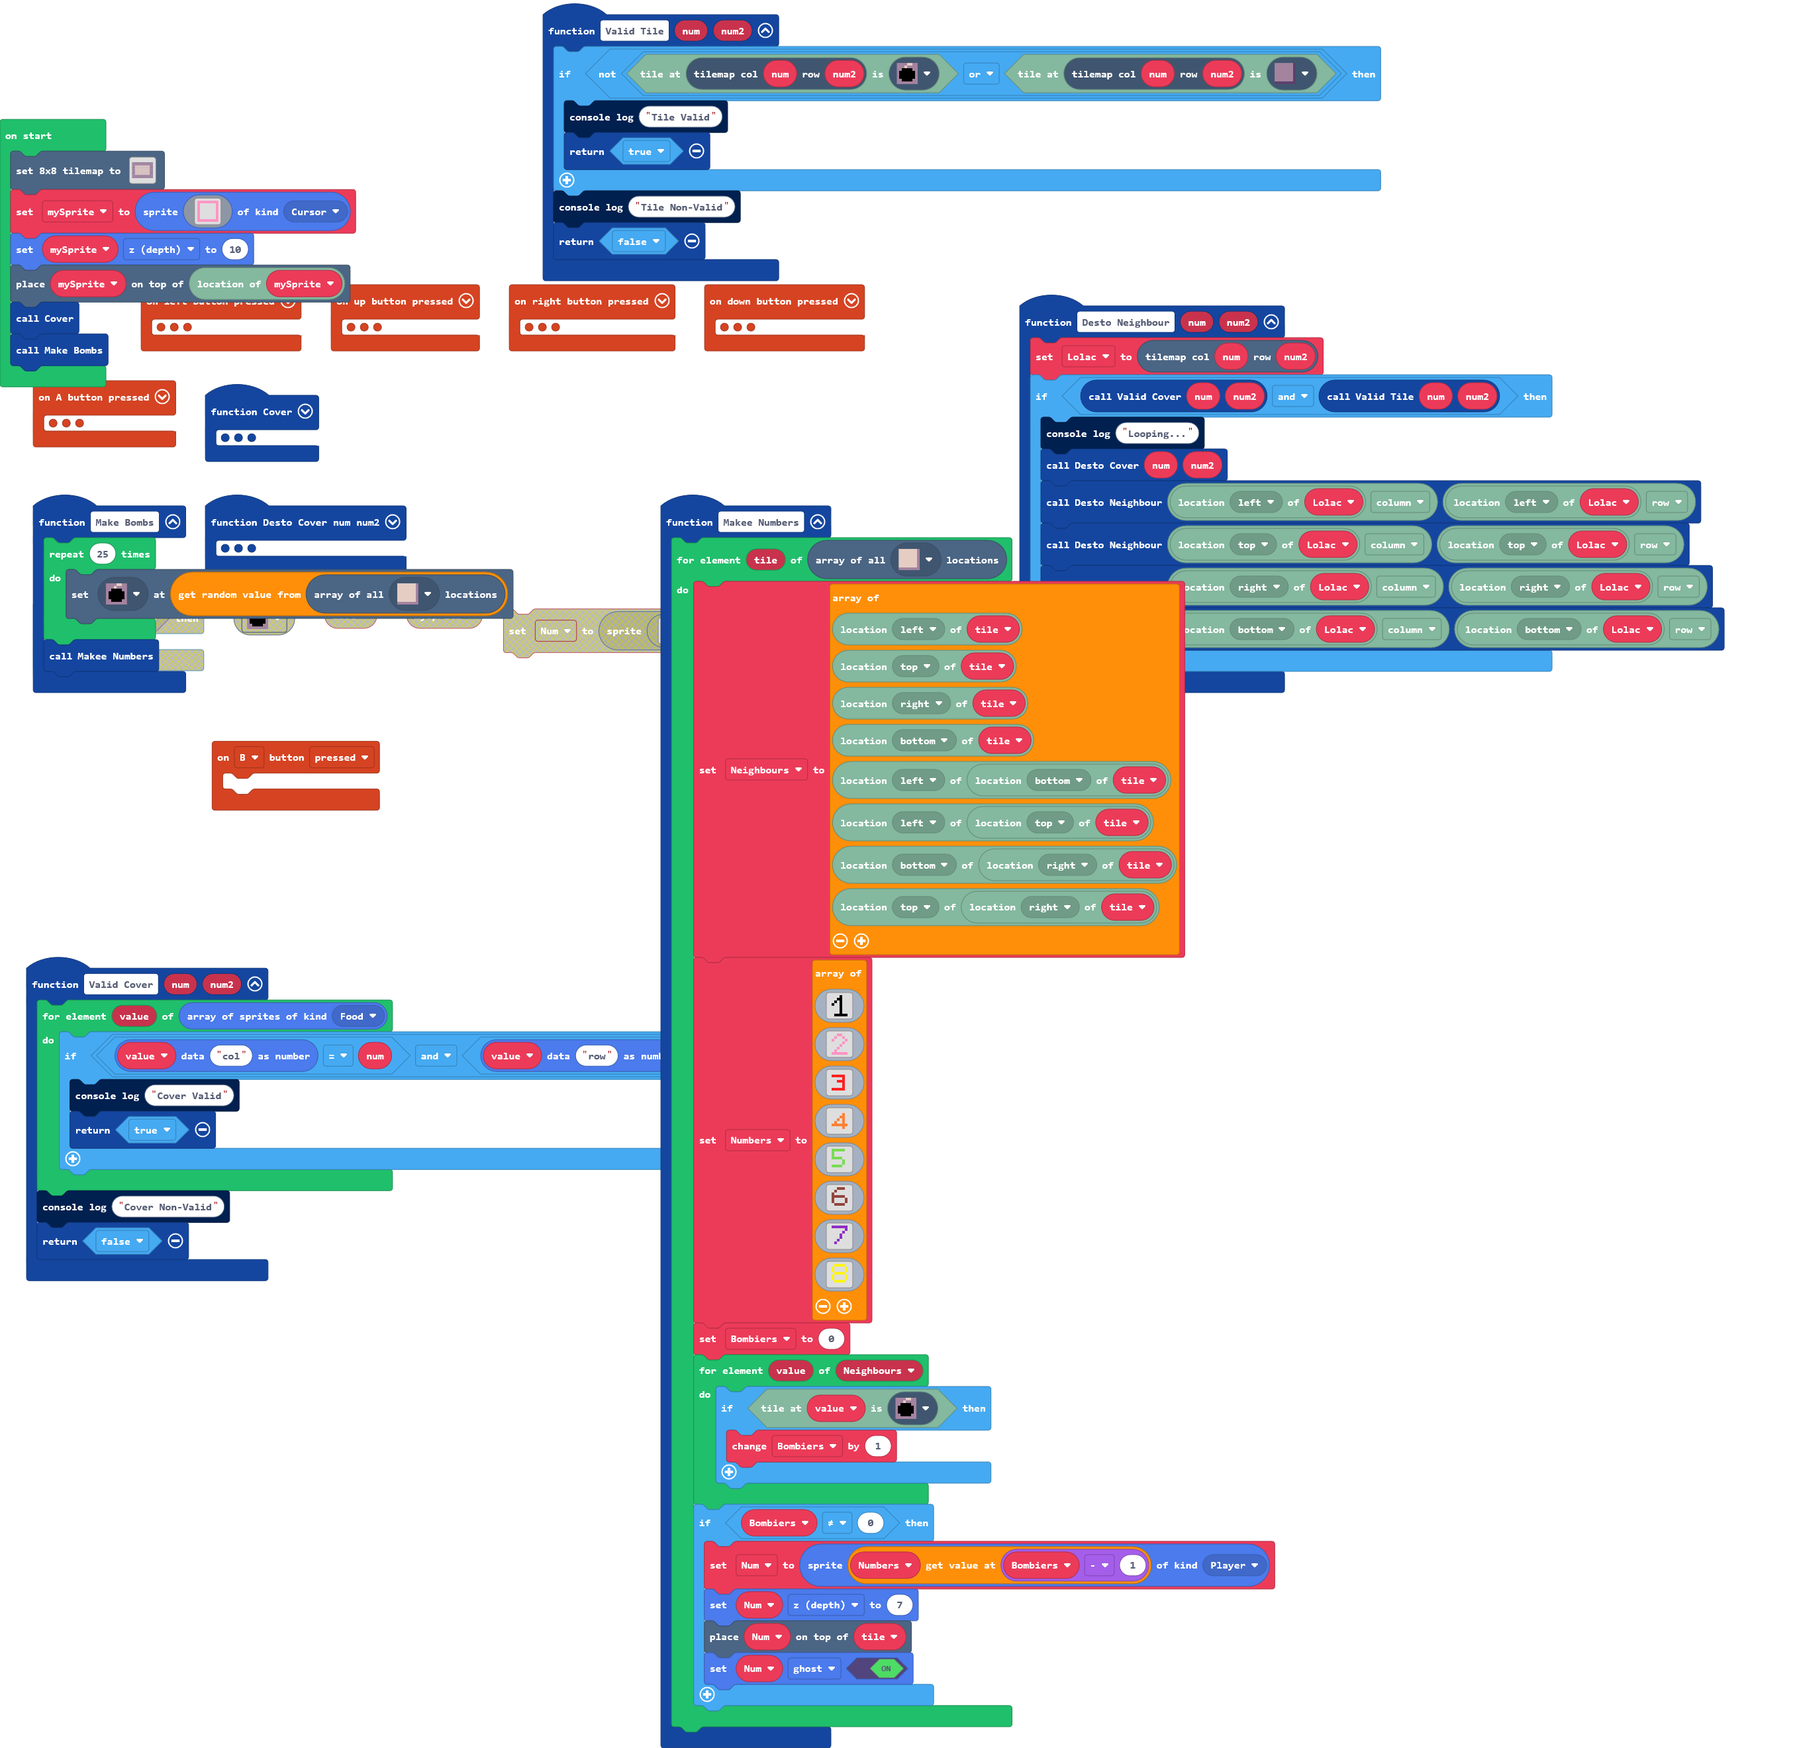
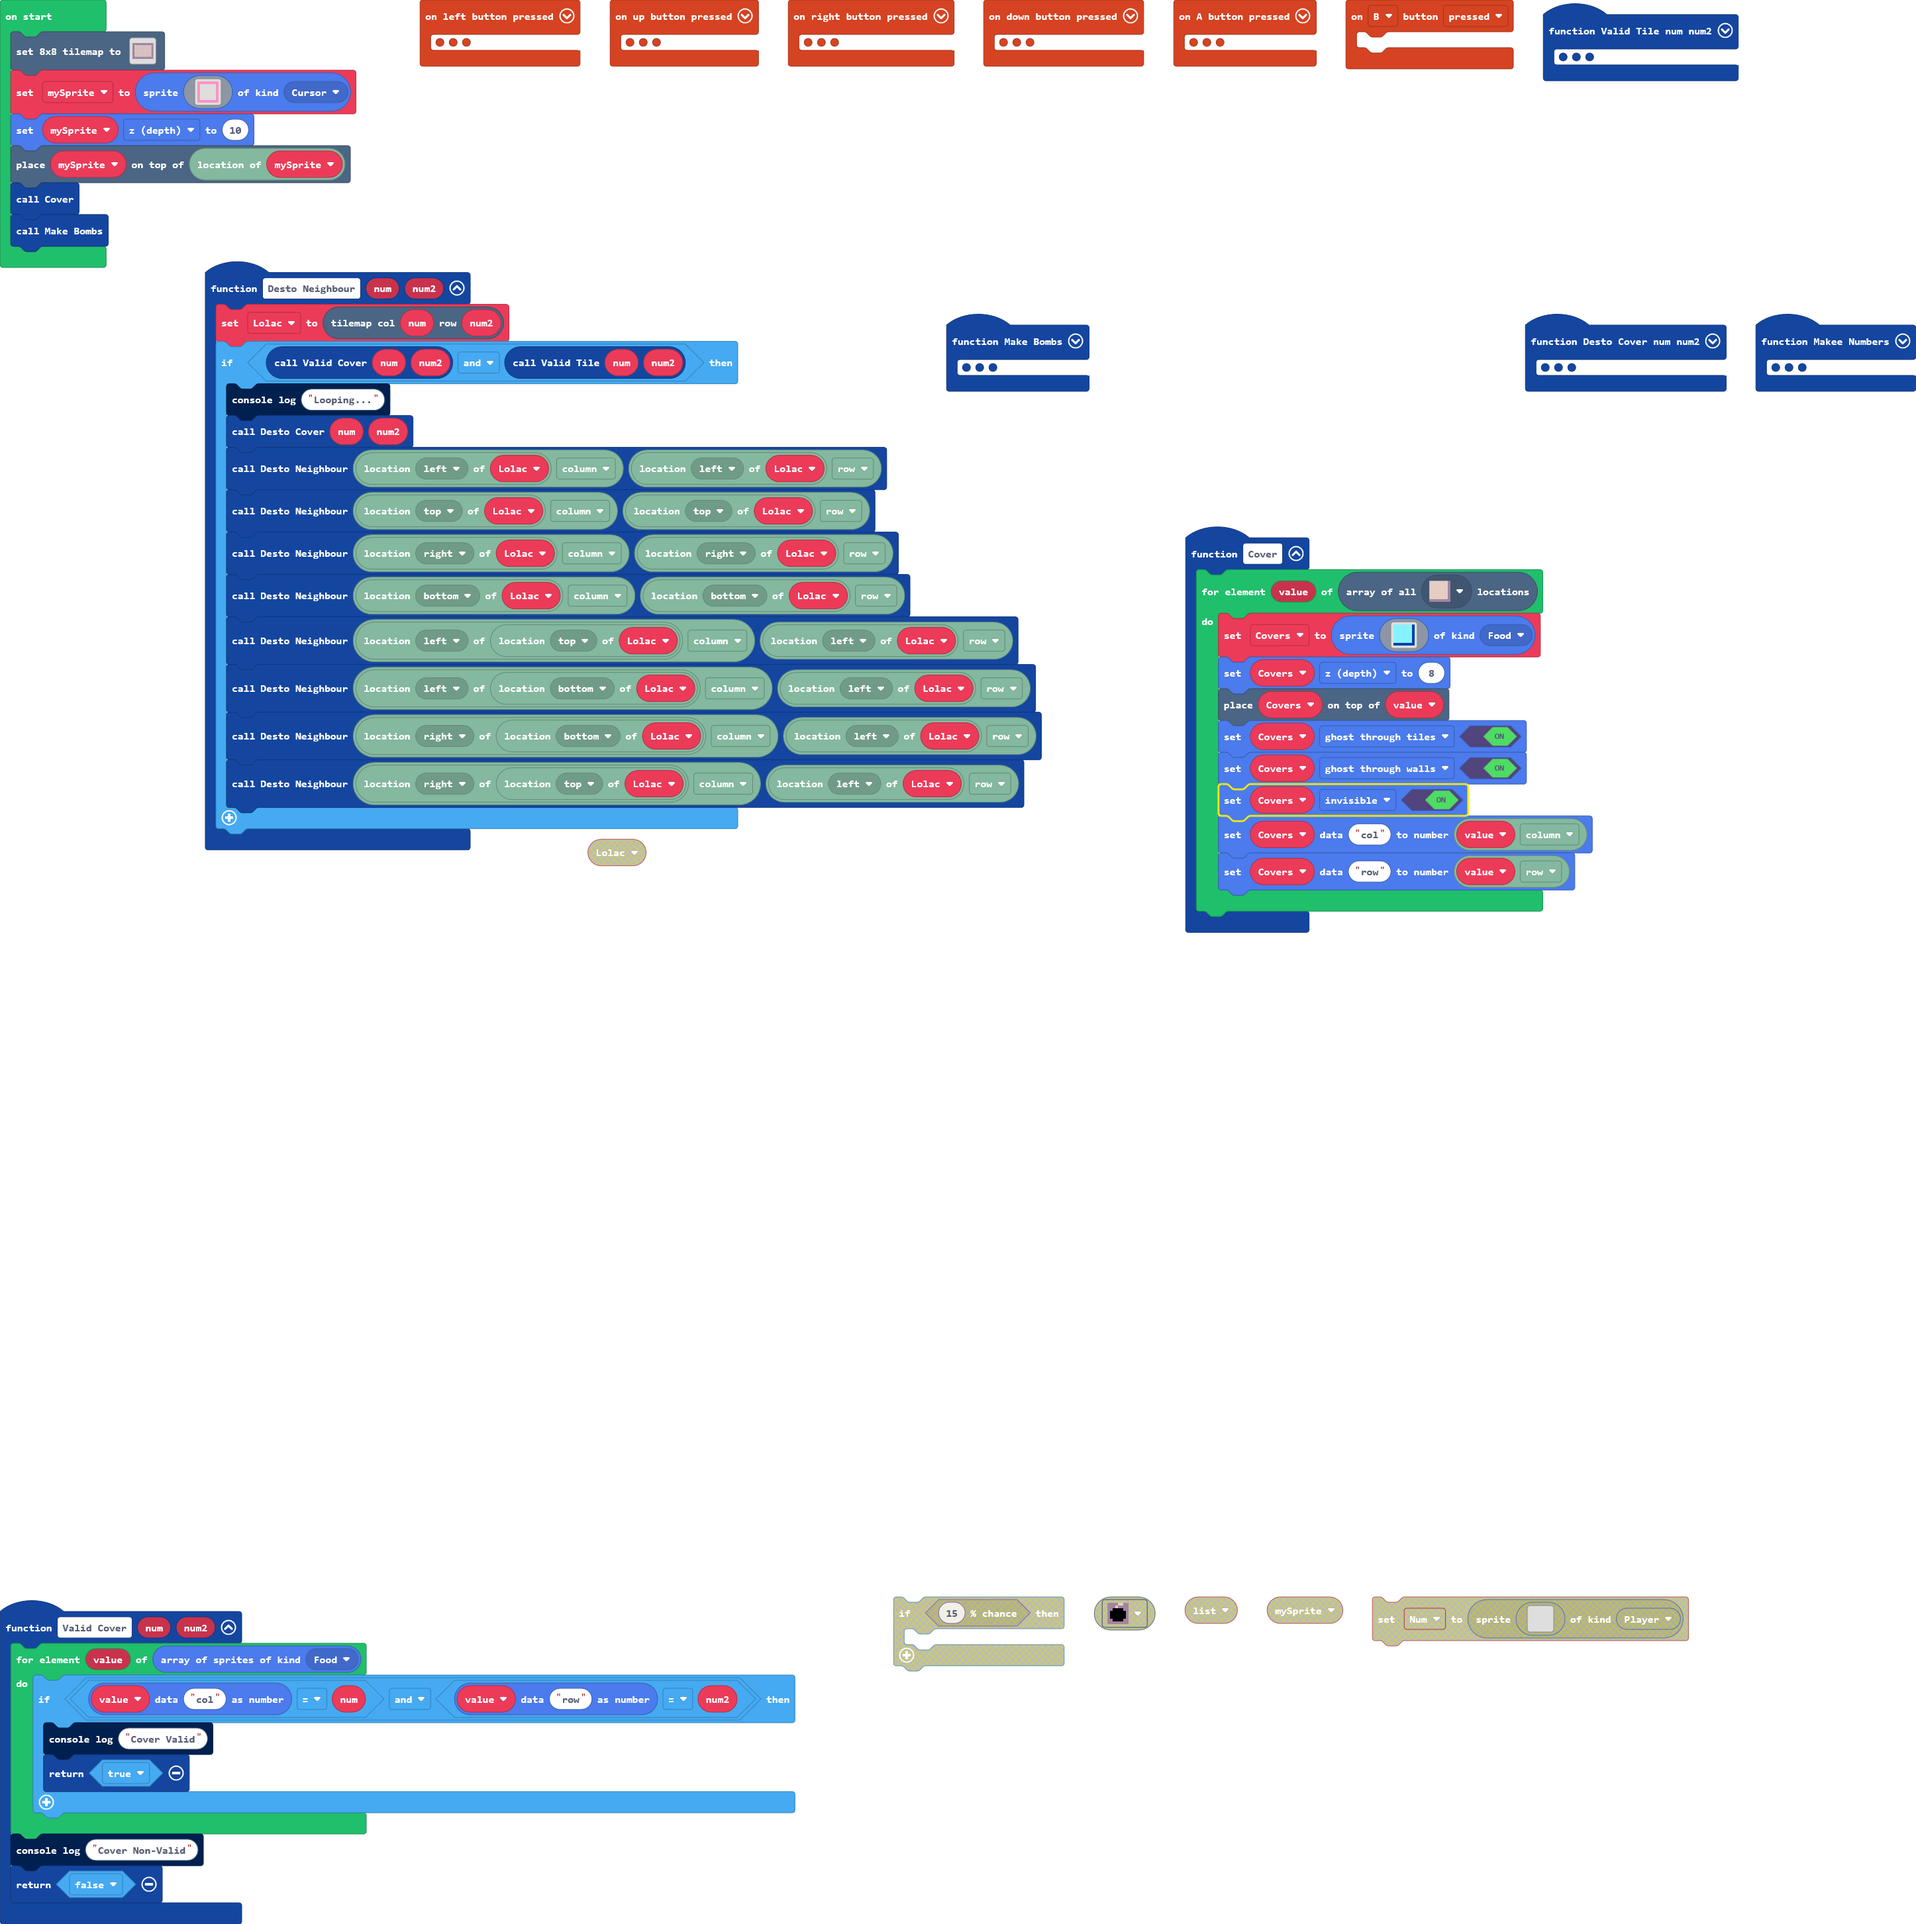
More Directions (Still debug code)

diff --git a/main.ts b/main.ts
@@ -154,13 +154,13 @@ function Cover () {
         tiles.placeOnTile(Covers, value)
         Covers.setFlag(SpriteFlag.GhostThroughTiles, true)
         Covers.setFlag(SpriteFlag.GhostThroughWalls, true)
-        Covers.setFlag(SpriteFlag.Invisible, false)
+        Covers.setFlag(SpriteFlag.Invisible, true)
         sprites.setDataNumber(Covers, "col", tiles.locationXY(value, tiles.XY.column))
         sprites.setDataNumber(Covers, "row", tiles.locationXY(value, tiles.XY.row))
     }
 }
 function Make_Bombs () {
-    for (let index = 0; index < 25; index++) {
+    for (let index = 0; index < 30; index++) {
         tiles.setTileAt(tiles.getTilesByType(assets.tile`myTile0`)._pickRandom(), assets.tile`myTile1`)
     }
     Makee_Numbers()
@@ -197,6 +197,10 @@ function Desto_Neighbour (num: number, num2: number) {
         Desto_Neighbour(tiles.locationXY(tiles.locationInDirection(Lolac, CollisionDirection.Top), tiles.XY.column), tiles.locationXY(tiles.locationInDirection(Lolac, CollisionDirection.Top), tiles.XY.row))
         Desto_Neighbour(tiles.locationXY(tiles.locationInDirection(Lolac, CollisionDirection.Right), tiles.XY.column), tiles.locationXY(tiles.locationInDirection(Lolac, CollisionDirection.Right), tiles.XY.row))
         Desto_Neighbour(tiles.locationXY(tiles.locationInDirection(Lolac, CollisionDirection.Bottom), tiles.XY.column), tiles.locationXY(tiles.locationInDirection(Lolac, CollisionDirection.Bottom), tiles.XY.row))
+        Desto_Neighbour(tiles.locationXY(tiles.locationInDirection(tiles.locationInDirection(Lolac, CollisionDirection.Top), CollisionDirection.Left), tiles.XY.column), tiles.locationXY(tiles.locationInDirection(Lolac, CollisionDirection.Left), tiles.XY.row))
+        Desto_Neighbour(tiles.locationXY(tiles.locationInDirection(tiles.locationInDirection(Lolac, CollisionDirection.Bottom), CollisionDirection.Left), tiles.XY.column), tiles.locationXY(tiles.locationInDirection(Lolac, CollisionDirection.Left), tiles.XY.row))
+        Desto_Neighbour(tiles.locationXY(tiles.locationInDirection(tiles.locationInDirection(Lolac, CollisionDirection.Bottom), CollisionDirection.Right), tiles.XY.column), tiles.locationXY(tiles.locationInDirection(Lolac, CollisionDirection.Left), tiles.XY.row))
+        Desto_Neighbour(tiles.locationXY(tiles.locationInDirection(tiles.locationInDirection(Lolac, CollisionDirection.Top), CollisionDirection.Right), tiles.XY.column), tiles.locationXY(tiles.locationInDirection(Lolac, CollisionDirection.Left), tiles.XY.row))
     }
 }
 let Lolac: tiles.Location = null

diff --git a/tilemap.g.ts b/tilemap.g.ts
@@ -14,7 +14,7 @@ namespace myTiles {
     helpers._registerFactory("tilemap", function(name: string) {
         switch(helpers.stringTrim(name)) {
             case "level1":
[2 lines of base64/hex data omitted]
 . . . . . . . . . . . . . . . . . . . . 
 . . . . . . . . . . . . . . . . . . . . 
 . . . . . . . . . . . . . . . . . . . . 
